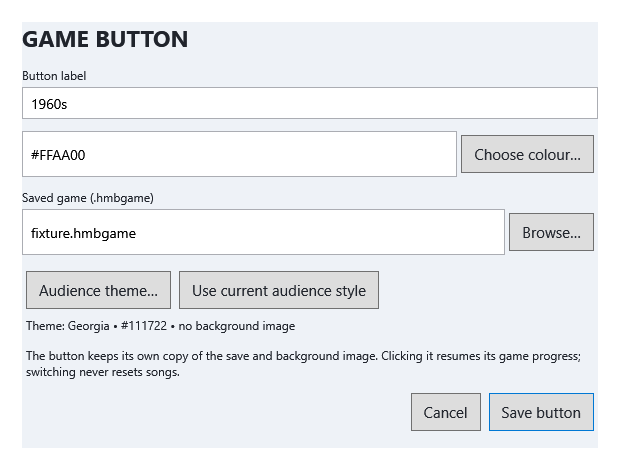
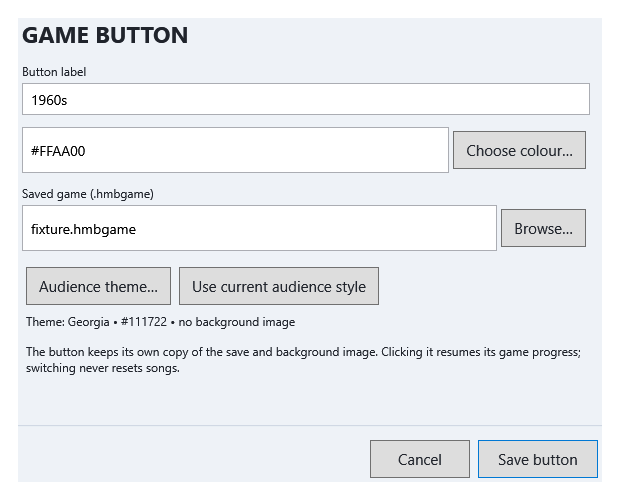
Prepare v1.1 game-button dialogue fix release

diff --git a/src/HazzMusicBingo/Views/MainWindow.xaml b/src/HazzMusicBingo/Views/MainWindow.xaml
@@ -1,7 +1,7 @@
 <Window x:Class="HazzMusicBingo.Views.MainWindow"
         xmlns="http://schemas.microsoft.com/winfx/2006/xaml/presentation"
         xmlns:x="http://schemas.microsoft.com/winfx/2006/xaml"
-        Title="Hazz Music Bingo v1.0"
+        Title="Hazz Music Bingo v1.1"
         Icon="/HazzMusicBingo;component/Assets/HazzMusicBingo.ico"
         Width="1380"
         Height="820"

diff --git a/src/HazzMusicBingo/Services/ReleaseSelfTest.cs b/src/HazzMusicBingo/Services/ReleaseSelfTest.cs
@@ -47,7 +47,7 @@ internal static class ReleaseSelfTest
             cn.Open(); using var cmd = cn.CreateCommand(); cmd.CommandText = "SELECT sqlite_version();";
             await File.WriteAllTextAsync(reportPath, JsonSerializer.Serialize(new
             {
-                result = "PASS", version = "1.0.0", sqliteVersion = (string?)cmd.ExecuteScalar(),
+                result = "PASS", version = "1.1.0", sqliteVersion = (string?)cmd.ExecuteScalar(),
                 runtimeVersion = Environment.Version.ToString(), cards = cards.Count, sheets = document.Pages.Count,
                 checks = "SQLite native loading, card generation, WPF page rendering, archive round trip, Media Foundation WAV decoding, MP3 tag reading"
             }, new JsonSerializerOptions { WriteIndented = true }));

diff --git a/RELEASE_NOTES.md b/RELEASE_NOTES.md
@@ -1,40 +1,19 @@
-# Hazz Music Bingo v1.0
+# Hazz Music Bingo v1.1 - game-button dialogue fix
 
-Style every audience text element independently and choose where music clips begin. This release also includes the tested Repeat Last to Play Next Song audio fix.
+The Edit Game Button dialogue now keeps **Save button** and **Cancel** visible in a fixed footer. The form scrolls, and the window can be resized. Small windows or long theme/background descriptions no longer push these actions out of view.
 
-## Download and quick start
+## Download and upgrade
 
-Download **Hazz-Music-Bingo-v1.0-Windows-x64.zip**, extract the whole ZIP into a new folder, and run **HazzMusicBingo.exe**. Keep **TagLibSharp.dll** beside it. Windows x64 is required; .NET is bundled. The EXE is unsigned. Music is not included.
+Download **Hazz-Music-Bingo-v1.1-Windows-x64.zip**, close the old app, extract the entire ZIP into a new folder and run **HazzMusicBingo.exe**. Keep **TagLibSharp.dll** beside the EXE. Windows x64 is required; .NET is included. Music is not included.
 
-1. Scan your music and choose the folder to use for the new game (at least 60 playable indexed songs).
-2. Generate the game, design/print cards, apply the sold-card range and save.
-3. Open **AUDIENCE SCREEN DESIGN**, choose a text element and adjust its font, size, colour and outline. Select **Use design**.
-4. Under **PLAYBACK**, choose **Start music at (seconds)**: 0, 30, 60, 90 or another multiple of 30. Next and Repeat use this position. If the track is too short, it starts at 0 with a host notice.
-5. Play for Line, then Four Corners, then Full House, acknowledging winners and changing rules without resetting progress.
+Existing games, cards, themes, button assignments and playback settings remain compatible. No data/schema migration is required. All v1.0 features remain included: individual audience text styles, 30-second playback start intervals and the Repeat-to-Next audio fix.
 
-[Quick start](https://github.com/harryoke/Hazz-Music-Bingo/blob/v1.0/docs/QUICK_START.md) | [User guide](https://github.com/harryoke/Hazz-Music-Bingo/blob/v1.0/docs/USER_GUIDE.md) | [31-page PDF manual](https://github.com/harryoke/Hazz-Music-Bingo/releases/download/v1.0/Hazz_Music_Bingo_v1.0_Complete_Manual.pdf)
+[Quick start](https://github.com/harryoke/Hazz-Music-Bingo/blob/v1.1/docs/QUICK_START.md) | [User guide](https://github.com/harryoke/Hazz-Music-Bingo/blob/v1.1/docs/USER_GUIDE.md) | [Illustrated manual](https://github.com/harryoke/Hazz-Music-Bingo/releases/download/v1.1/Hazz_Music_Bingo_v1.0_Complete_Manual.pdf)
 
-## New controls
-
-- Eleven independent audience text styles: playing-for message, winner announcement, Now Playing heading, Ready, current song title, current artist, played-list heading, played titles, played artists, page number and empty-list message.
-- Each style offers installed font, size 12-140, text colour, bold, italic, outline on/off, outline colour and outline width 0-12. The preview shows the relevant screen. Outlines render behind the fill for readability.
-- Audience themes and all eight saved-game buttons retain the individual styles. Existing themes use their old settings until an element is edited.
-- Start position dropdown offers 0-600 seconds in 30-second steps; larger steps can be typed up to 86400. Invalid values stop the request before audio starts. Short remaining audio plays only to the track end.
-- The chosen start is remembered locally after Next or Repeat and applies across games; it is separate from clip length and game saves.
-- Next can interrupt Repeat during steady playback or fade without the retiring clip muting the next song.
-
-## Compatibility and upgrade
-
-Existing databases, valid version-1 game saves, printed cards, live-winning settings and game-button assignments remain supported. No database or game-save schema migration is needed. The normal Windows profile retains your data when you extract the release into a new folder.
-
-Audience theme JSON adds optional per-element TextStyles; missing entries fall back to the legacy fields. playback-settings.json stores the last used start offset. Include it with the database, designs and game-buttons folder in full-profile backups. Music is still referenced by path, not copied. Physical speakers, printers and displays should be rehearsed before an event.
+The included 31-page v1.0 manual covers the same game features; its game-button editor screenshot predates this layout correction. The online guide and packaged screenshot show the corrected dialogue.
 
 ## Validation
 
-Windows Release build: zero warnings/errors. **410 regression checks passed**, including decoded WAV samples at 0, 30 and 60 seconds, short-track fallback, Repeat-to-Next handover, all eleven text styles, theme/button persistence and 20 generated card sets. Packaged executable self-test checks database loading, cards, printing, game archives, WAV decoding and MP3 tags. The dependency audit reported no known vulnerable packages. Hardware speaker output is not claimed by these automated checks.
+Windows Release build: zero warnings/errors. **419 regression checks passed**, including nine layout assertions across three viewport sizes with a long theme description. The packaged executable self-test passed database loading, card generation, WPF printing, saved-game round trip, WAV decoding and MP3 tag reading. Hardware speaker, printer and display rehearsal remains recommended before an event.
 
-The release includes Windows and source ZIPs, the updated illustrated PDF manual and SHA-256 checksums. The Windows ZIP also contains the guides, licences and third-party source/notices.
-
-## Copyright and licence
-
-Copyright 2026 Hazz Karaoke. Free use includes paid and commercial shows. Unchanged copies may be shared free with branding and notices intact. Modified or rebranded redistribution requires written permission. Third-party licences and statutory rights remain applicable. TagLibSharp remains separately replaceable under LGPL-2.1; its source and licence are included.
+Windows ZIP, source ZIP, illustrated manual and SHA-256 checksums are attached. Licences, third-party notices and dependency source are included in the packages. Copyright 2026 Hazz Karaoke; the existing licence terms continue to apply.

diff --git a/README.md b/README.md
@@ -1,10 +1,10 @@
 ![Hazz Music Bingo](docs/images/hazz-music-bingo.png)
 
-# Hazz Music Bingo v1.0
+# Hazz Music Bingo v1.1
 
 A Windows music-bingo host with custom 5×5 cards, print previews, an audience screen, missing-music checks and winner verification.
 
-[Download Windows x64](https://github.com/harryoke/Hazz-Music-Bingo/releases/tag/v1.0) · [Quick start](docs/QUICK_START.md) · [User guide](docs/USER_GUIDE.md) · [Build and development](docs/DEVELOPMENT.md) · [Testing](docs/TESTING.md) · [Changes](CHANGELOG.md)
+[Download Windows x64](https://github.com/harryoke/Hazz-Music-Bingo/releases/tag/v1.1) · [Quick start](docs/QUICK_START.md) · [User guide](docs/USER_GUIDE.md) · [Build and development](docs/DEVELOPMENT.md) · [Testing](docs/TESTING.md) · [Changes](CHANGELOG.md)
 
 [Download the complete illustrated PDF manual](https://github.com/harryoke/Hazz-Music-Bingo/releases/download/v1.0/Hazz_Music_Bingo_v1.0_Complete_Manual.pdf) — 31 pages covering player rules, hosting, themes, printing, recovery, card randomisation and the game engine's maths.
 
@@ -61,3 +61,6 @@ The automated suite uses temporary profiles and covers persistence, card rules, 
 The name **v.0.1** is the first public release label; earlier source archives used an internal v0.2.15 label. Existing local databases receive an additive game-code column. Existing version-1 saved games remain supported when structurally valid. Loading a portable saved game intentionally reshuffles playback order; reopening history preserves it.
 
 Game files store song paths and layouts, not audio or artwork. The app currently targets .NET 8; see the development guide for support and upgrade planning. Third-party components are listed in [THIRD_PARTY_NOTICES.md](THIRD_PARTY_NOTICES.md).
+
+
+In v1.1, the game-button editor can be resized and its form scrolls. **Save button** and **Cancel** remain visible in a fixed footer. The included v1.0 manual still covers the game features; its editor screenshot predates this layout correction.

diff --git a/docs/USER_GUIDE.md b/docs/USER_GUIDE.md
@@ -1,10 +1,10 @@
 ![Hazz Music Bingo](images/hazz-music-bingo.png)
 
-# Hazz Music Bingo v1.0 — user guide
+# Hazz Music Bingo v1.1 — user guide
 
 ## Install and start
 
-Download the Windows x64 ZIP from the [v1.0 release](https://github.com/harryoke/Hazz-Music-Bingo/releases/tag/v1.0), extract it, and run **HazzMusicBingo.exe**. The .NET runtime is included. The application is unsigned. Windows audio support and a working sound output are required. No music is included. Keep your own music on a local or reliably connected drive.
+Download the Windows x64 ZIP from the [v1.0 release](https://github.com/harryoke/Hazz-Music-Bingo/releases/tag/v1.1), extract it, and run **HazzMusicBingo.exe**. The .NET runtime is included. The application is unsigned. Windows audio support and a working sound output are required. No music is included. Keep your own music on a local or reliably connected drive.
 
 The app stores its library, games and settings in `%LOCALAPPDATA%\HazzMusicBingo`. Moving or replacing the executable does not move or erase this data. First startup creates an empty database. Later startups reopen the active game automatically.
 
@@ -209,3 +209,6 @@ For a 1970s game: scan your 70s folder, confirm that path is shown as the source
 The selected folder needs at least 60 available songs with a successful scanned duration. Missing/unscanned folders or too few available songs stop generation and leave the active database game intact. No fallback songs are drawn from other folders. Choosing a folder alone does not scan it; scan first if it is new.
 
 ![Audience message styling](images/audience-message-design.png)
+
+
+In v1.1, the game-button editor can be resized and its form scrolls. **Save button** and **Cancel** remain visible in a fixed footer. The included v1.0 manual still covers the game features; its editor screenshot predates this layout correction.

diff --git a/docs/RELEASE_VALIDATION.md b/docs/RELEASE_VALIDATION.md
@@ -1,7 +1,7 @@
-# v1.0 validation record
+# v1.1 validation record
 
 - Release solution build: zero warnings and zero errors.
-- Regression suite: **410 assertions passed**, including 20 independently generated 60-card sets and 24 print-option combinations.
+- Regression suite: **419 assertions passed**, including 20 independently generated 60-card sets and 24 print-option combinations.
 - WPF rendering: card designer, classic/midnight cards, four-card sheet, print preview and host console rendered and inspected. Print viewer pages were loaded through WPF's dispatcher.
 - Standalone Windows x64 self-test: passed native SQLite loading, 60-card generation, 15 four-card pages, archive round trip and Media Foundation WAV decoding.
 - Packaged native SQLite: **3.53.3**. Packaged .NET runtime: **8.0.31**.
@@ -26,3 +26,5 @@ GitHub's [Actions page](https://github.com/harryoke/Hazz-Music-Bingo/actions) re
 v1.0 additionally validates MP3 tag reading in the packaged executable, independent winning-message styling, eight game shortcuts and folder-scoped generation. The release ZIP includes the external TagLibSharp.dll; keeping only the EXE is not a complete installation.
 
 - v1.0 adds decoded offset checks at 0/30/60 seconds, short-track fallback, Repeat-to-Next interruption and independent styles for eleven audience text elements.
+
+- v1.1 adds nine layout assertions covering accessible Save/Cancel buttons and scrolling at three viewport sizes with a long theme description.

diff --git a/docs/DEVELOPMENT.md b/docs/DEVELOPMENT.md
@@ -67,7 +67,7 @@ The requested first public release is named **Hazz Music Bingo v.0.1**, tag **v.
 
 Version-1 archives add an optional Winning object. Validation precedes mutation; winning settings are inserted in the same transaction as game state and cards. Reset clears acknowledgements transactionally with played state. Rule changes only update settings. Older apps ignore the optional archive object and will lose those settings if they resave it.
 
-The current release is **v1.0**, tag **v1.0**, application version **1.0.0**. The original public release remains at tag **v.0.1**. The legacy release-v0.1 workflow must not be used to publish newer versions: create their own versioned tag and assets after validation. Normal main-branch CI does not publish releases.
+The current release is **v1.1**, tag **v1.1**, application version **1.1.0**. The original public release remains at tag **v.0.1**. The legacy release-v0.1 workflow must not be used to publish newer versions: create their own versioned tag and assets after validation. Normal main-branch CI does not publish releases.
 
 ## v1.0 source selection, shortcuts and tags
 

diff --git a/docs/QUICK_START.md b/docs/QUICK_START.md
@@ -1,10 +1,10 @@
 ![Hazz Music Bingo](images/hazz-music-bingo.png)
 
-# Hazz Music Bingo v1.0 — quick start
+# Hazz Music Bingo v1.1 — quick start
 
 ## Install
 
-Download **Hazz-Music-Bingo-v1.0-Windows-x64.zip** from the [v1.0 release](https://github.com/harryoke/Hazz-Music-Bingo/releases/tag/v1.0). Extract the entire ZIP into a folder, keep `TagLibSharp.dll` beside the EXE, then run **HazzMusicBingo.exe**. Windows x64 is required; .NET is included. Music is not included.
+Download **Hazz-Music-Bingo-v1.1-Windows-x64.zip** from the [v1.1 release](https://github.com/harryoke/Hazz-Music-Bingo/releases/tag/v1.1). Extract the entire ZIP into a folder, keep `TagLibSharp.dll` beside the EXE, then run **HazzMusicBingo.exe**. Windows x64 is required; .NET is included. Music is not included.
 
 Upgrading from v.0.1? Close the old app and extract this version into a new folder. The same Windows account automatically retains its library and games. Back up the database through **GAME HISTORY / RECOVERY** before your first event with the update. Old saves open with live tracking off until you apply a sold-card range.
 

diff --git a/docs/README.md b/docs/README.md
@@ -1,6 +1,6 @@
 ![Hazz Music Bingo](images/hazz-music-bingo.png)
 
-# Hazz Music Bingo v1.0 documentation
+# Hazz Music Bingo v1.1 documentation
 
 - [Complete illustrated PDF manual](Hazz_Music_Bingo_v1.0_Complete_Manual.pdf): 31 pages in plain English covering how to play, run an event, configure themes, print cards, recover games and understand card randomisation and game mathematics. [Direct download](https://github.com/harryoke/Hazz-Music-Bingo/releases/download/v1.0/Hazz_Music_Bingo_v1.0_Complete_Manual.pdf).
 - [Quick start](QUICK_START.md): installation, event setup and the Line → Four Corners → Full House workflow.
@@ -11,3 +11,6 @@
 - [Copyright notice](COPYRIGHT_NOTICE.md) and [full licence](../LICENSE.txt).
 
 The app includes no music. Portable game files contain paths and layouts, not audio or artwork.
+
+
+In v1.1, the game-button editor can be resized and its form scrolls. **Save button** and **Cancel** remain visible in a fixed footer. The included v1.0 manual still covers the game features; its editor screenshot predates this layout correction.

diff --git a/CHANGELOG.md b/CHANGELOG.md
@@ -1,6 +1,6 @@
 # Changelog
 
-## Unreleased - game-button dialogue layout
+## v1.1 - game-button dialogue layout
 
 - Keep Save button and Cancel in a fixed footer, make the form scrollable and allow the window to resize. Long theme summaries and smaller available window sizes can no longer push the actions below the visible area.
 - Added nine layout checks across three viewport sizes. Windows Release build passes with zero warnings/errors; all 419 regression checks pass.
